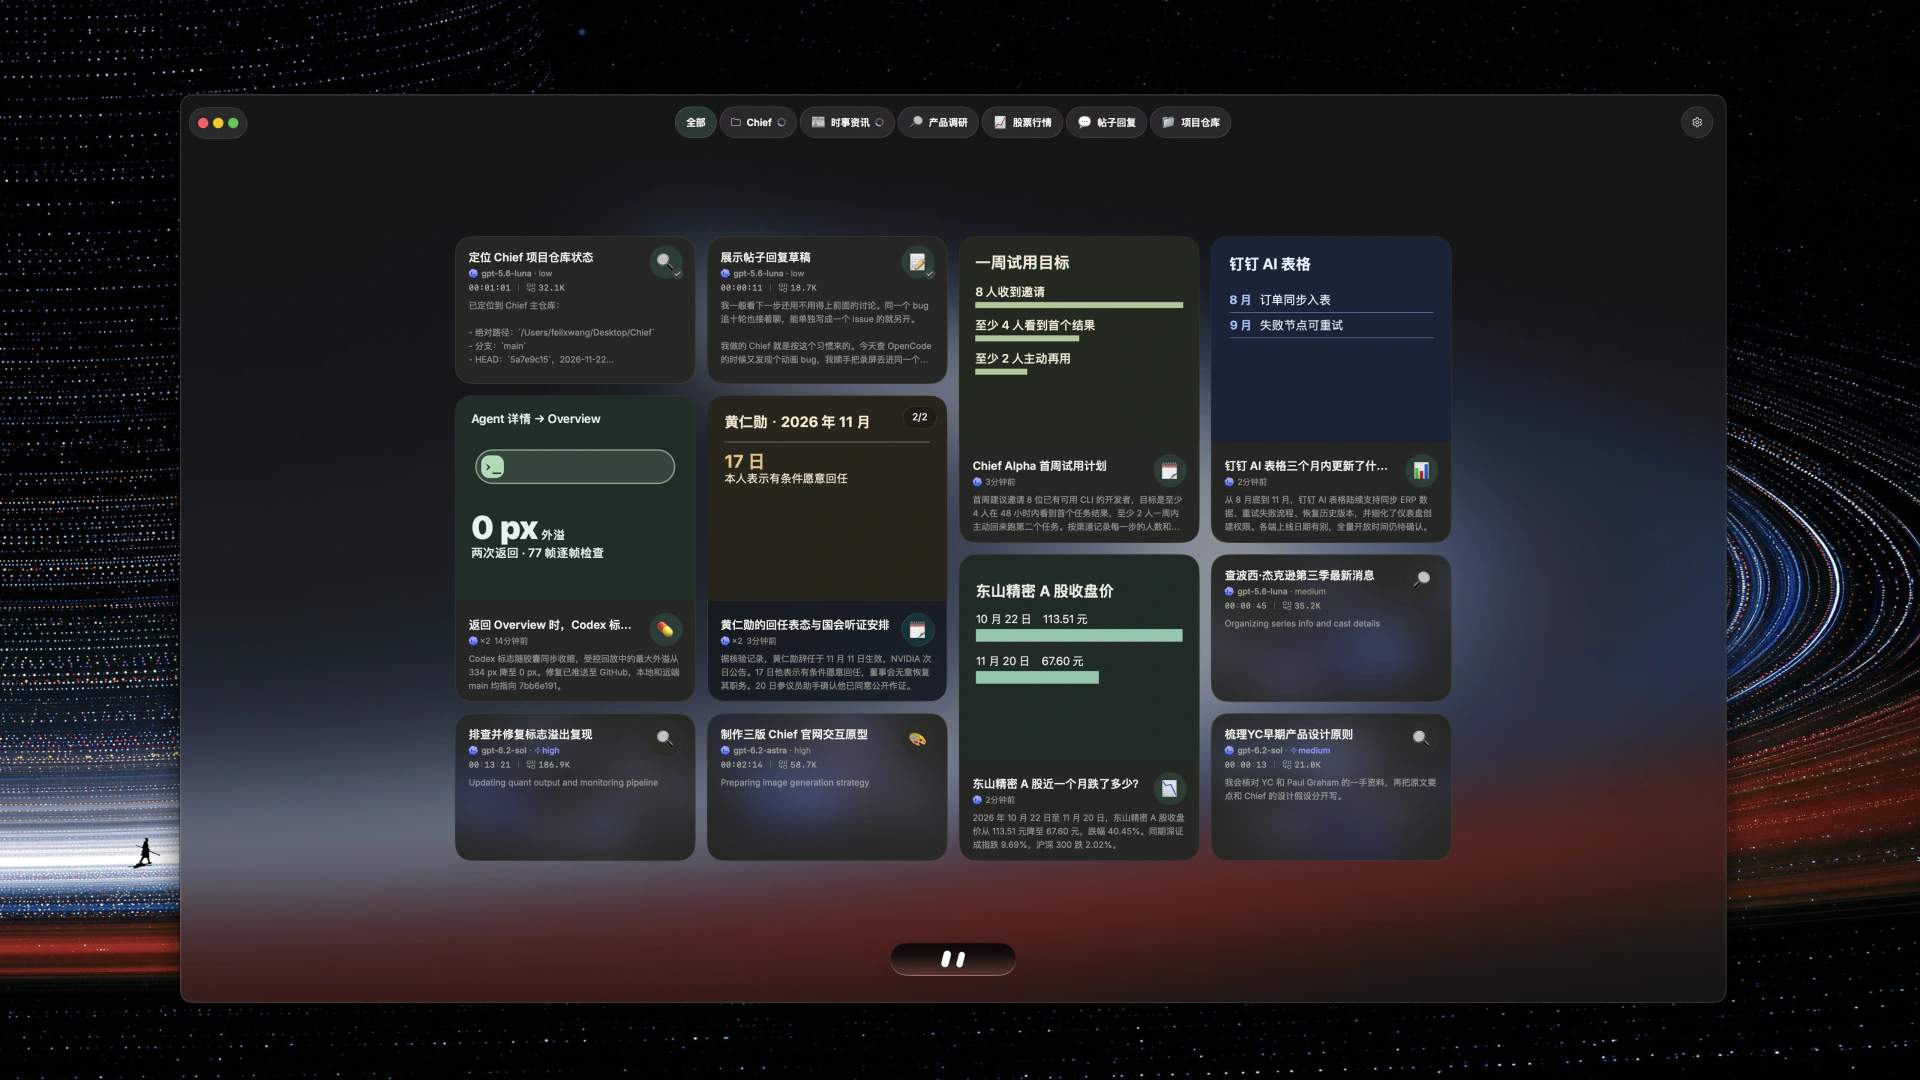
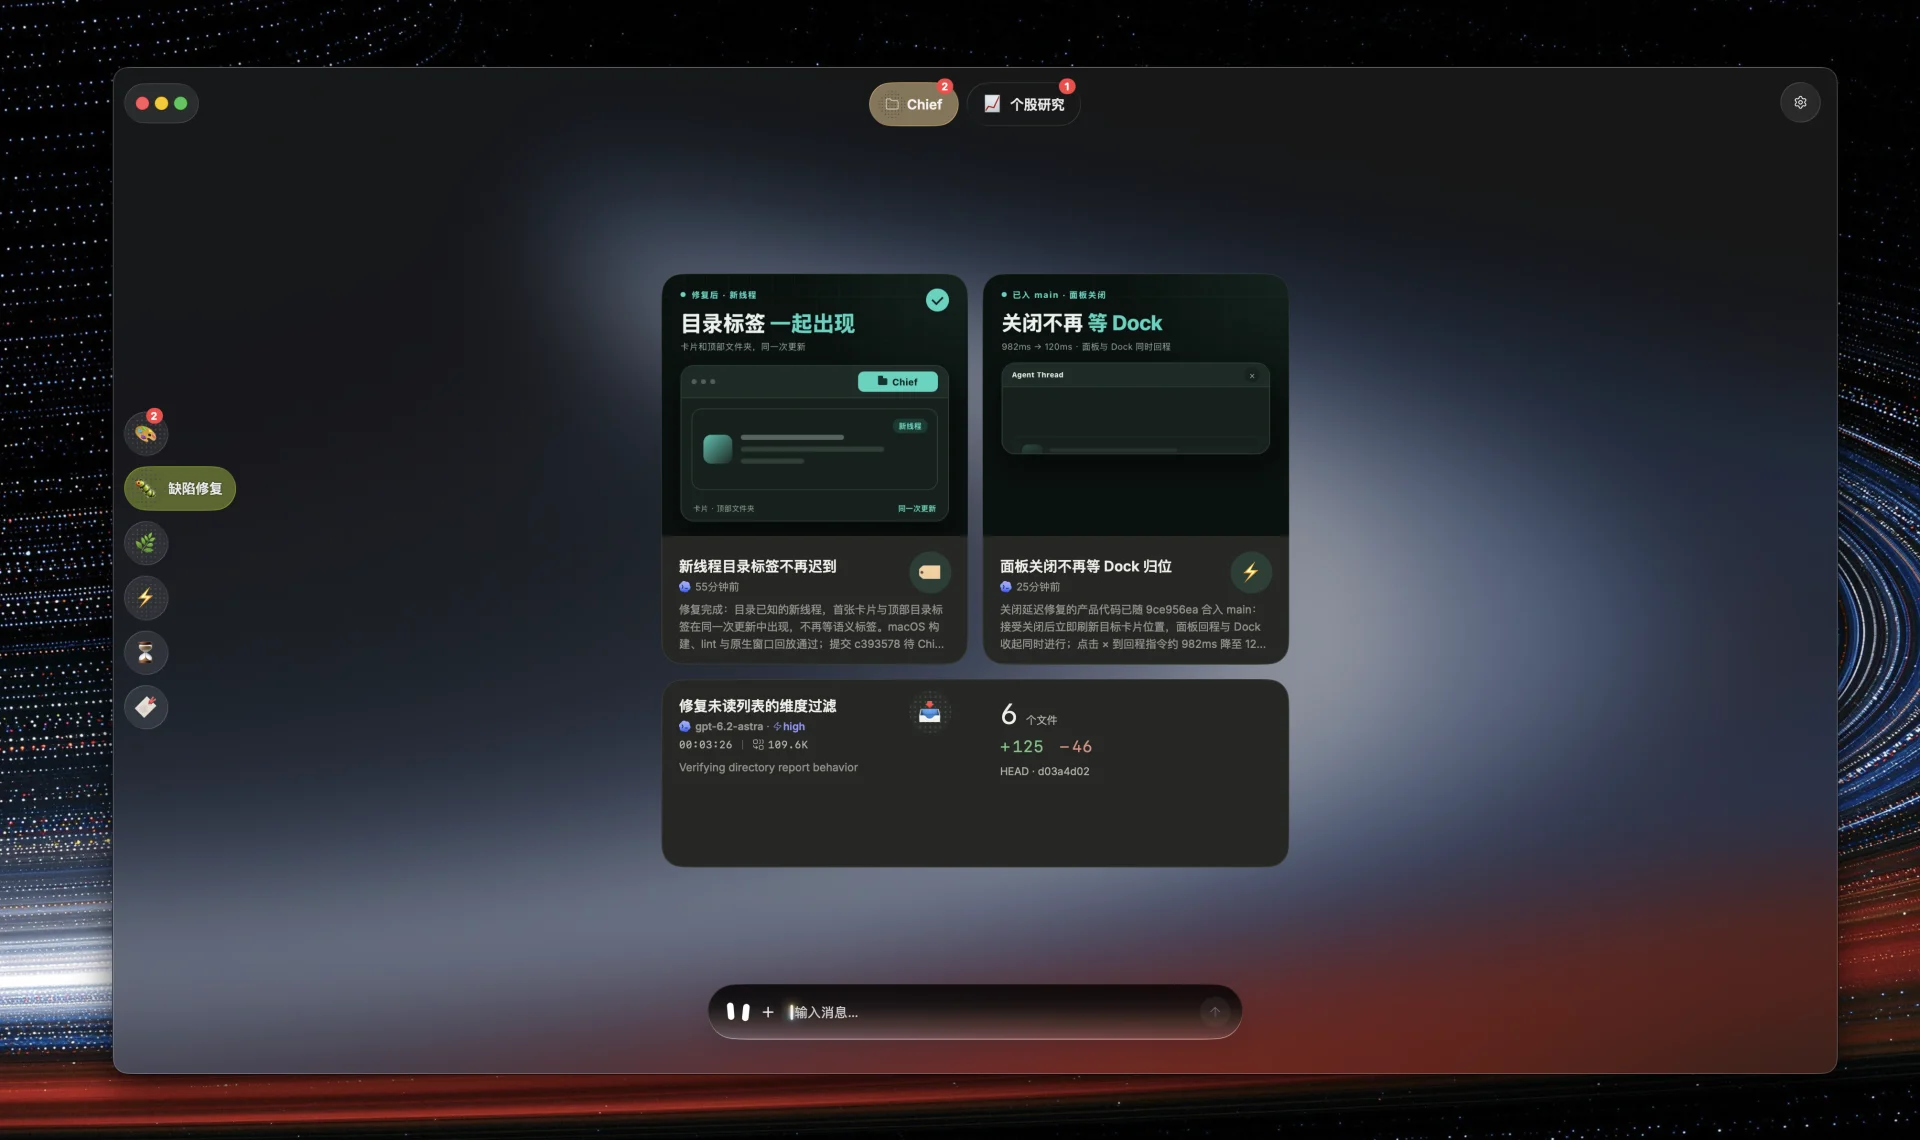
Refresh the README Overview screenshot
Show the bug-fix view in both the inline preview and full-size image.
Describe the activity and file changes visible on the active task.

diff --git a/README.md b/README.md
@@ -22,9 +22,9 @@ Chief brings Codex, Claude, Pi Agent, and OpenCode into one workspace.
 Talk to the **Chief** assistant to coordinate work, then open each task's conversation
 to follow the work and give it more direction.
 
-[![Chief Overview showing coordinated agent tasks](design/overview-readme-preview.webp)](design/overview-readme.png)
+[![Chief Overview filtered to bug fixes, with two illustrated reports above an active task](design/overview-readme-preview.webp)](design/overview-readme.png)
 
-Select the screenshot to open its original file. The Overview grid rearranges as task cards update. [Watch the Overview demo (MP4, 6.5 sec) →](design/overview-readme-demo.mp4)
+The active task shows the latest agent activity and a summary of file changes. Select the screenshot to view it at full size. [Watch the Overview demo (MP4, 6.5 sec) →](design/overview-readme-demo.mp4)
 
 - **Ask once, coordinate across agents.** Give Chief a task, attach files, and include the full path of any project folder Chief should use. Chief can answer directly or assign work to the agents you've enabled. [Working with Chief →](docs/working-with-moku.md)
 - **See what needs you.** Overview uses a bento box design to show task status, questions, and permission requests on cards of different sizes. The canvas grows with your work for the feel of infinite horizontal scrolling as you browse from the first column to the last. Filter by folder or tag, then open a conversation to step in. [Overview →](docs/overview.md)
